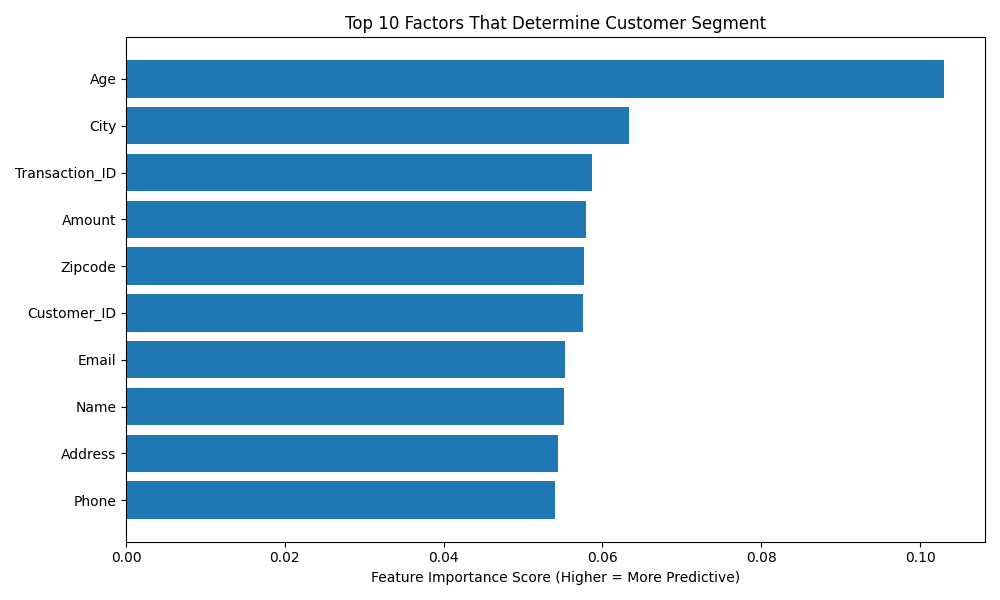
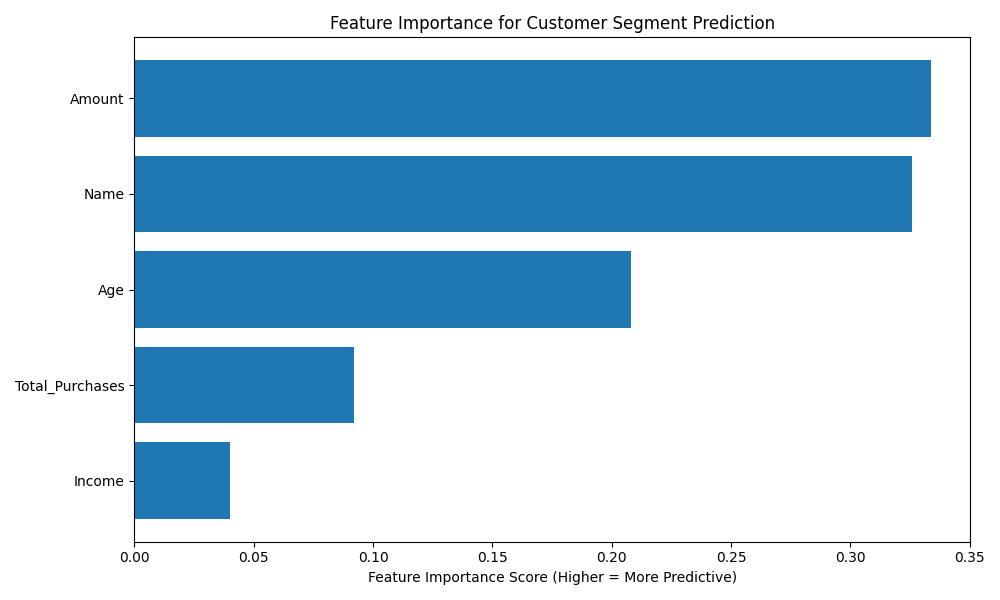
Updated Customer segment

diff --git a/backend/components/CusomerSegmentPre.py b/backend/components/CusomerSegmentPre.py
@@ -28,7 +28,9 @@ df.drop(columns=['Date', 'Year', 'Month', 'Time'], inplace=True)
 
 # Define features (X) and target (y)
 TARGET_COL = 'Customer_Segment'
-X = df.drop(columns=[TARGET_COL])
+# Select only the 5 specified features: Name, Age, Income, Total_Purchases, Amount
+selected_features = ['Name', 'Age', 'Income', 'Total_Purchases', 'Amount']
+X = df[selected_features]
 y = df[TARGET_COL]
 
 print(f"\nCustomer Segments to Predict:\n{y.value_counts()}")
@@ -66,7 +68,8 @@ X_train, X_test, y_train, y_test = train_test_split(
     stratify=y_encoded 
 )
 
-print(f"Total numerical features the model will use: {X_encoded.shape[1]} columns")
+print(f"Total features the model will use: {X_encoded.shape[1]} columns")
+print(f"Selected features: {selected_features}")
 print(f"Training Set Size (Model Learning): {len(X_train)} records")
 print("-" * 50)
 
@@ -125,20 +128,20 @@ f1_weighted = f1_score(y_train, y_pred, average='weighted')
 importances = rf_classifier.feature_importances_
 feature_names = X_encoded.columns
 feature_importance_df = pd.DataFrame({'feature': feature_names, 'importance': importances})
-feature_importance_df = feature_importance_df.sort_values(by='importance', ascending=False).head(10)
+feature_importance_df = feature_importance_df.sort_values(by='importance', ascending=False)
 
 # Visualization
 plt.figure(figsize=(10, 6))
 plt.barh(feature_importance_df['feature'], feature_importance_df['importance'], color='#1f77b4')
 plt.xlabel('Feature Importance Score (Higher = More Predictive)')
-plt.title('Top 10 Factors That Determine Customer Segment')
+plt.title('Feature Importance for Customer Segment Prediction')
 plt.gca().invert_yaxis()
 plt.tight_layout()
 plt.savefig('customer_segment_feature_importance.png')
 plt.show()
 
 #Print Outputs 
-print("\n--- Model Insight: Top 10 Factors That Predict Customer Segment ---")
+print("\n--- Model Insight: Feature Importance for Customer Segment Prediction ---")
 print("The higher the score, the more that factor influences the customer's segment:")
 print(feature_importance_df.to_string(index=False))
 
